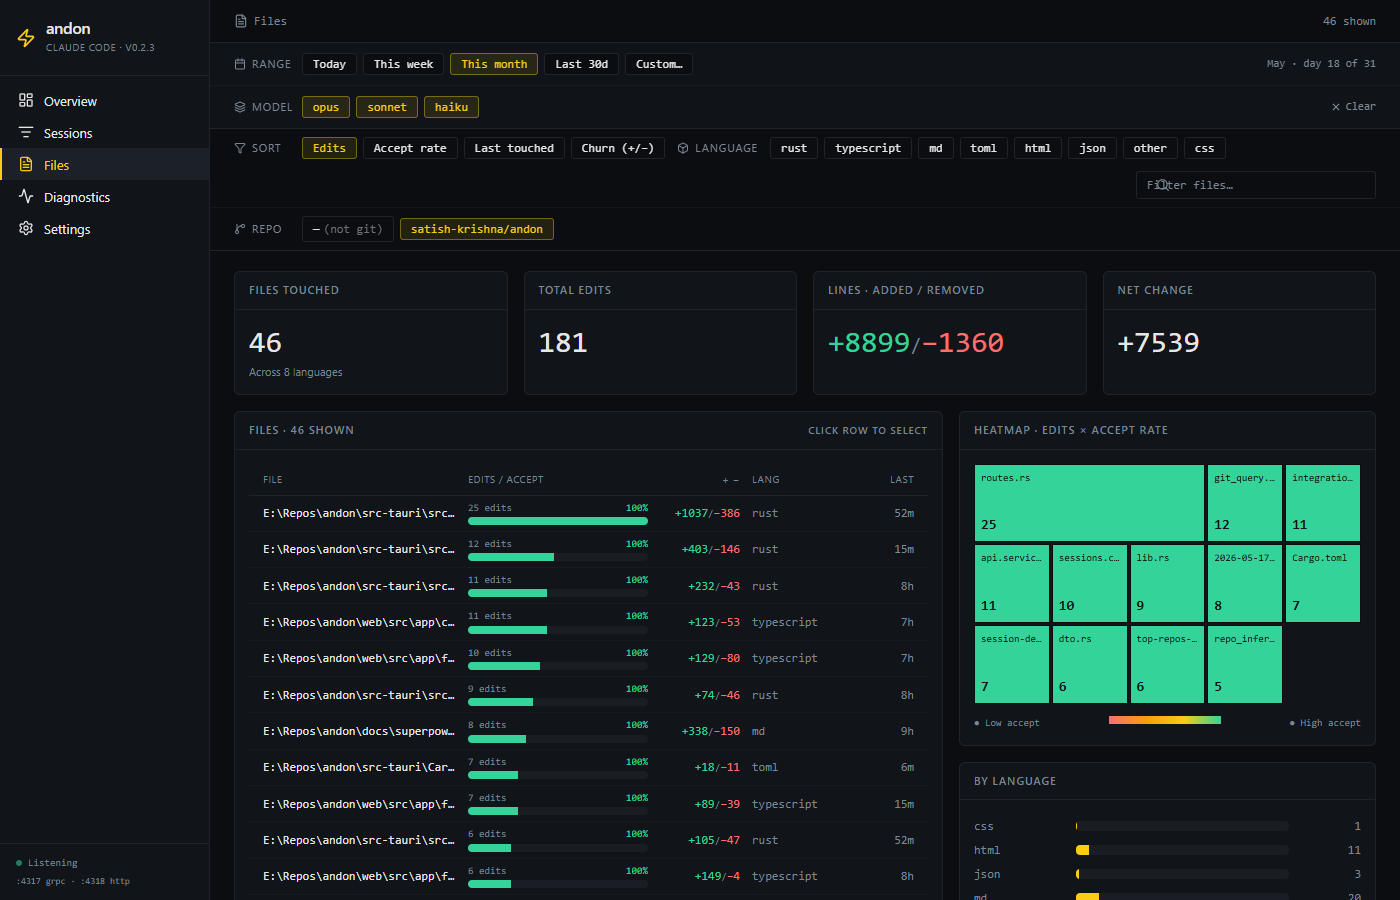
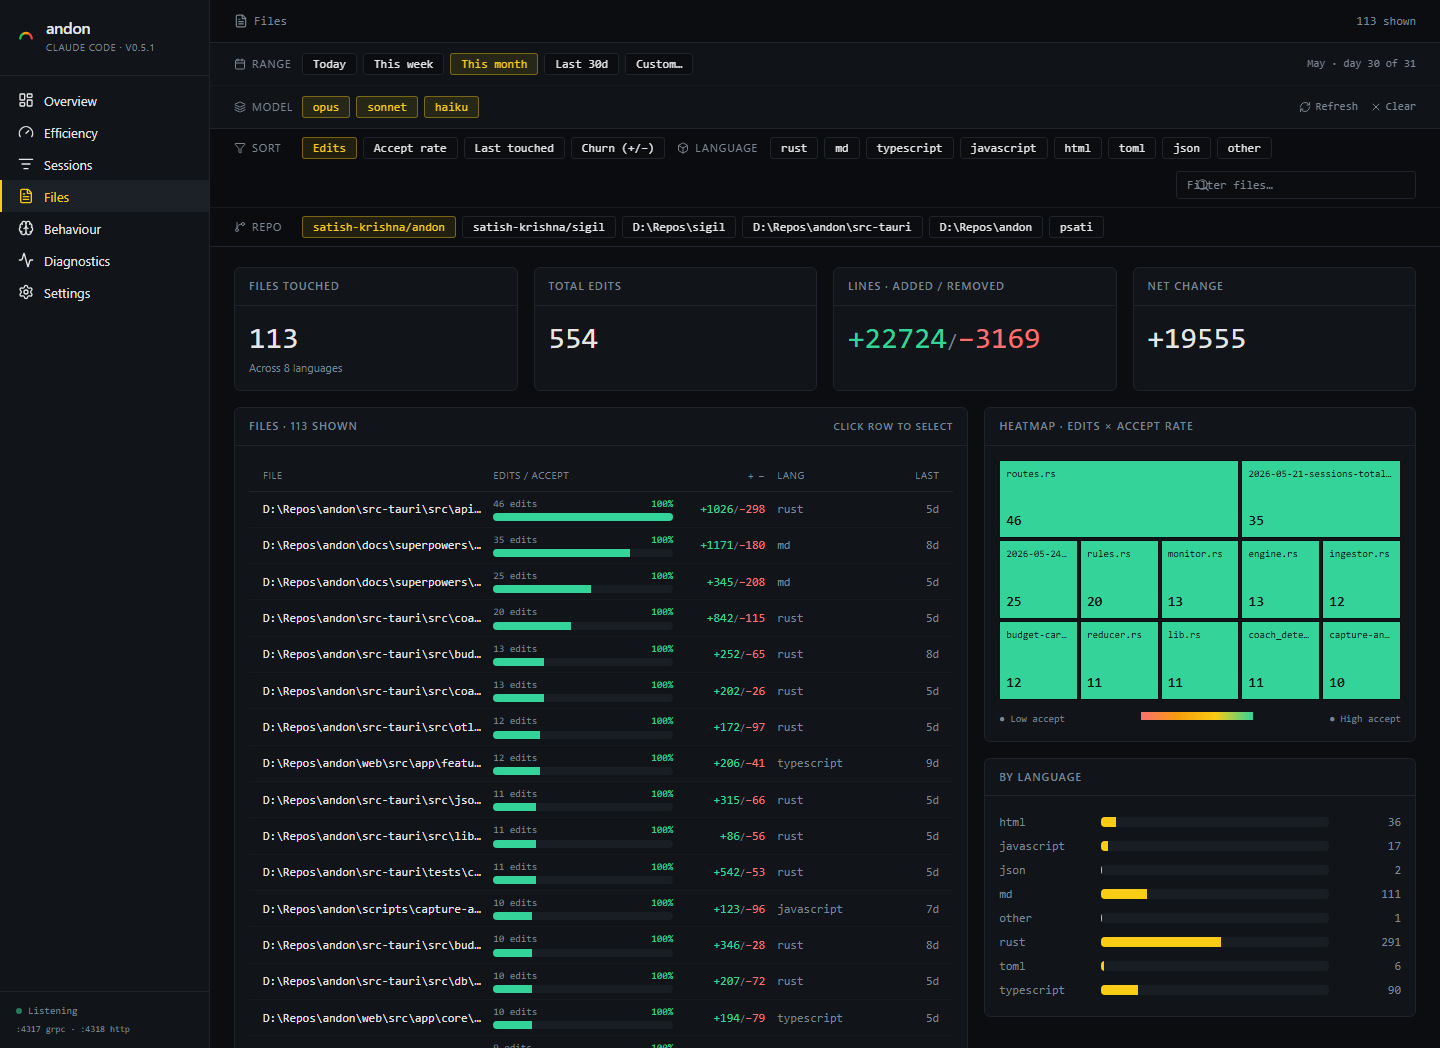
docs(release): v0.5.1 screenshots and extras-capture script
Refresh the 7 live dashboard PNGs from a v0.5.1 binary (new andon-mark
icon visible in sidebar), add the matching release-archive set under
docs/images/release/v0.5.1/, and refresh the two non-page-shaped views
(session-detail, files-filtered) that the standard capture script
doesn't drive.

scripts/capture-extras-screenshots.js is the helper that drives those
two views. Notes for future-me:

- The SPA uses HashLocationStrategy, so navigation goes through
  window.location.hash — page.goto() to a deep path lands on overview
  because Angular only reads the fragment.
- Page-height detection scans body/document scrollHeight only; the
  release-script "max scrollHeight across all elements" heuristic
  picks up the session-detail Timeline (overflow-auto + max-h) and
  bloats the screenshot.
- Files-filtered picks the FIRST repo chip the page renders rather
  than a pre-fetched /api/repos key, because the chip list is
  windowed to the current filter range and a top-overall repo can
  yield an empty result.

diff --git a/scripts/capture-extras-screenshots.js b/scripts/capture-extras-screenshots.js
@@ -1,0 +1,248 @@
+#!/usr/bin/env node
+// Capture the two non-page-shaped views the standard release-screenshot
+// script doesn't cover:
+//
+//   docs/images/session-detail.png  -- /sessions/:id  for the first session
+//                                      returned by the v2 sessions list.
+//   docs/images/files-filtered.png  -- /files with a single repo filter
+//                                      pre-applied (via /sessions?repo=...
+//                                      which seeds FilterService, then a
+//                                      client-side nav click to /files so the
+//                                      root-scoped filter sticks).
+//
+// Prerequisites match capture-release-screenshots.js: andon must be running
+// on :8765, the SPA must be built, and `cd scripts && npm install` must have
+// run at least once.
+//
+// Usage (from the scripts/ directory):
+//   node capture-extras-screenshots.js
+
+const http = require('http');
+const fs = require('fs');
+const path = require('path');
+const puppeteer = require('puppeteer-core');
+
+const REPO = path.join(__dirname, '..');
+const SPA_DIR = path.join(REPO, 'web', 'dist', 'web', 'browser');
+const API = 'http://127.0.0.1:8765';
+const SERVE_PORT = 8089; // distinct from the release script's 8088
+const WIDTH = 1440;
+const OUT_DIR = path.join(REPO, 'docs', 'images');
+
+const BROWSER_CANDIDATES = [
+  'C:/Program Files/Google/Chrome/Application/chrome.exe',
+  'C:/Program Files (x86)/Google/Chrome/Application/chrome.exe',
+  'C:/Program Files (x86)/Microsoft/Edge/Application/msedge.exe',
+  'C:/Program Files/Microsoft/Edge/Application/msedge.exe',
+];
+
+const MIME = {
+  '.html': 'text/html', '.js': 'text/javascript', '.mjs': 'text/javascript',
+  '.css': 'text/css', '.json': 'application/json', '.ico': 'image/x-icon',
+  '.svg': 'image/svg+xml', '.woff2': 'font/woff2', '.woff': 'font/woff',
+  '.ttf': 'font/ttf', '.png': 'image/png', '.jpg': 'image/jpeg',
+  '.webp': 'image/webp', '.txt': 'text/plain',
+};
+
+const sleep = (ms) => new Promise((r) => setTimeout(r, ms));
+const die = (msg) => {
+  console.error('ERROR: ' + msg);
+  process.exit(1);
+};
+
+function findBrowser() {
+  const found = BROWSER_CANDIDATES.find((p) => fs.existsSync(p));
+  if (!found) die('no Chrome or Edge found — install Google Chrome');
+  return found;
+}
+
+function startServer() {
+  return new Promise((resolve) => {
+    const server = http.createServer((req, res) => {
+      const urlPath = decodeURIComponent(req.url.split('?')[0]);
+      let file = path.join(SPA_DIR, urlPath);
+      try {
+        if (!fs.existsSync(file) || fs.statSync(file).isDirectory()) {
+          file = path.join(SPA_DIR, 'index.html');
+        }
+        res.writeHead(200, {
+          'content-type': MIME[path.extname(file).toLowerCase()] || 'application/octet-stream',
+        });
+        res.end(fs.readFileSync(file));
+      } catch (e) {
+        res.writeHead(500);
+        res.end(String(e));
+      }
+    });
+    server.listen(SERVE_PORT, '127.0.0.1', () => resolve(server));
+  });
+}
+
+async function checkApi() {
+  try {
+    const res = await fetch(API + '/api/health');
+    if (!res.ok) throw new Error('HTTP ' + res.status);
+  } catch (e) {
+    die('andon API not reachable at ' + API + ' — start andon first (' + e.message + ')');
+  }
+}
+
+async function fetchFirstSessionId() {
+  const res = await fetch(API + '/api/v2/sessions?limit=1');
+  if (!res.ok) die('GET /api/v2/sessions failed: HTTP ' + res.status);
+  const j = await res.json();
+  if (!j.sessions || !j.sessions.length) die('no sessions in database');
+  return j.sessions[0].session_id;
+}
+
+
+// Same dollar-blur as the release script: blur any element containing text
+// that matches a dollar-cost pattern. Repo paths, token counts and session
+// IDs are intentionally left intact.
+async function blurCosts(page) {
+  await page.evaluate(() => {
+    const COST = /\$\s?\d[\d,]*\.?\d*/;
+    const walker = document.createTreeWalker(document.body, NodeFilter.SHOW_TEXT);
+    const hits = [];
+    while (walker.nextNode()) {
+      if (COST.test(walker.currentNode.textContent)) hits.push(walker.currentNode);
+    }
+    for (const tn of hits) {
+      if (tn.parentElement) tn.parentElement.style.filter = 'blur(10px)';
+    }
+  });
+}
+
+// The dashboard scrolls inside an inner container; fullPage misses it. Size
+// the viewport to the document's own scrollHeight, capped at 9000. (The
+// release script scans every element's scrollHeight, but inner containers
+// with overflow-auto + max-height — e.g. the session-detail Timeline — report
+// huge scrollHeights that bloat the screenshot. body/document scrollHeight
+// is the right measure of actual page extent.)
+async function tallestScrollHeight(page) {
+  return await page.evaluate(() => {
+    const h = Math.max(
+      document.documentElement.scrollHeight,
+      document.body.scrollHeight,
+    );
+    return Math.min(h + 48, 9000);
+  });
+}
+
+(async () => {
+  if (!fs.existsSync(path.join(SPA_DIR, 'index.html'))) {
+    die('SPA not built — run `cd web; npm run build` (or build-release.ps1) first');
+  }
+  const browserPath = findBrowser();
+  await checkApi();
+
+  const sid = await fetchFirstSessionId();
+  console.log('first session: ' + sid);
+
+  const server = await startServer();
+  const base = 'http://127.0.0.1:' + SERVE_PORT;
+
+  const browser = await puppeteer.launch({
+    executablePath: browserPath,
+    headless: true,
+    args: ['--hide-scrollbars', '--disable-gpu'],
+    defaultViewport: { width: WIDTH, height: 1000 },
+  });
+  try {
+    const page = await browser.newPage();
+
+    // Single SPA bootstrap. After this, all navigation goes through clicks
+    // on real Angular-routed links — the only mechanism we've verified works
+    // end-to-end on the production build. Direct `page.goto` to deep routes
+    // and synthetic popstate dispatches both proved unreliable.
+    // The SPA uses HashLocationStrategy: every route lives in the URL hash
+    // (e.g. http://host/#/sessions/abc). Navigation is therefore driven by
+    // setting window.location.hash, which fires `hashchange` — the only event
+    // HashLocationStrategy subscribes to. page.goto() with a path, history
+    // pushState + popstate, and href="/path" selectors all fail because they
+    // address the wrong part of the URL.
+    await page.goto(`${base}/`, { waitUntil: 'networkidle0', timeout: 60000 });
+    // Wait for the sidebar to render — networkidle0 can fire before Angular
+    // commits its first view.
+    try {
+      await page.waitForSelector('a[href="#/sessions"]', { timeout: 15000 });
+    } catch (e) {
+      const debug = await page.evaluate(() => ({
+        url: window.location.href,
+        anchorHrefs: [...document.querySelectorAll('a')].map((a) => a.getAttribute('href')).slice(0, 20),
+      }));
+      console.error('SIDEBAR NEVER RENDERED. page state:');
+      console.error(JSON.stringify(debug, null, 2));
+      throw e;
+    }
+    await sleep(1500);
+
+    async function spaNavigate(routePath) {
+      await page.evaluate((p) => {
+        // location.hash setter automatically fires hashchange when the value
+        // changes. Angular's HashLocationStrategy subscribes to that.
+        window.location.hash = p;
+      }, routePath);
+    }
+
+    async function assertHash(expectedPrefix) {
+      const url = await page.url();
+      const hashPath = (url.split('#')[1] || '').split('?')[0];
+      if (!hashPath.startsWith(expectedPrefix)) {
+        die('expected hash path to start with ' + expectedPrefix + ', got ' + hashPath);
+      }
+    }
+
+    async function captureFullPage(outFile) {
+      const h = await tallestScrollHeight(page);
+      await page.setViewport({ width: WIDTH, height: h });
+      await sleep(1000); // reflow
+      await blurCosts(page);
+      await sleep(200);
+      await page.screenshot({ path: path.join(OUT_DIR, outFile) });
+      console.log('  ' + outFile);
+    }
+
+    // ---- session-detail.png ------------------------------------------------
+    // Direct hash nav to the session-detail route. The route is defined as
+    // `sessions/:id` with `loadComponent` — the lazy chunk fetches on first
+    // visit, so we wait an extra beat.
+    await page.setViewport({ width: WIDTH, height: 1000 });
+    await spaNavigate('/sessions/' + encodeURIComponent(sid));
+    await sleep(3500);
+    await assertHash('/sessions/');
+    await captureFullPage('session-detail.png');
+
+    // ---- files-filtered.png ------------------------------------------------
+    // Visit /files, then click the FIRST repo chip the page renders. This
+    // sidesteps a data trap: /api/repos with no filter window returns the
+    // all-time top repo, but the Files page only renders chips for repos
+    // active in the current filter window — so a pre-fetched key can yield
+    // an empty result. Picking from the page's own list guarantees the
+    // filter produces visible data.
+    await page.setViewport({ width: WIDTH, height: 1000 });
+    await spaNavigate('/files');
+    await sleep(3500);
+    await assertHash('/files');
+
+    const filtered = await page.evaluate(() => {
+      const labels = [...document.querySelectorAll('span.filter-label')];
+      const repoLabel = labels.find((el) => el.textContent.trim().toLowerCase().includes('repo'));
+      if (!repoLabel) return { ok: false, reason: 'no Repo label (no repos in window?)' };
+      const row = repoLabel.parentElement;
+      const chip = row && row.querySelector('button.filter-chip');
+      if (!chip) return { ok: false, reason: 'no chip in Repo row' };
+      chip.click();
+      return { ok: true, label: chip.textContent.trim() };
+    });
+    if (!filtered.ok) die('could not apply repo filter: ' + filtered.reason);
+    console.log('  applied repo chip: "' + filtered.label + '"');
+    await sleep(3500); // filter re-fetch
+    await captureFullPage('files-filtered.png');
+  } finally {
+    await browser.close();
+    server.close();
+  }
+
+  console.log('done — review docs/images/session-detail.png and docs/images/files-filtered.png.');
+})().catch((e) => die(e.stack || e.message));
